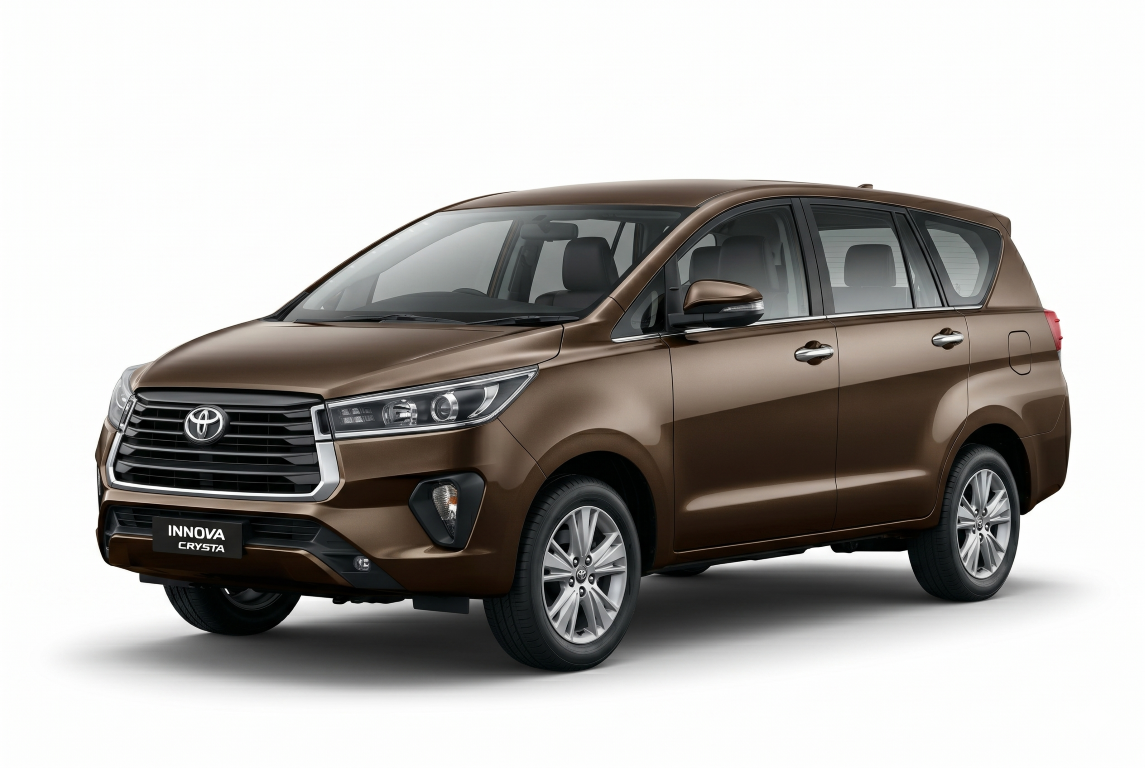
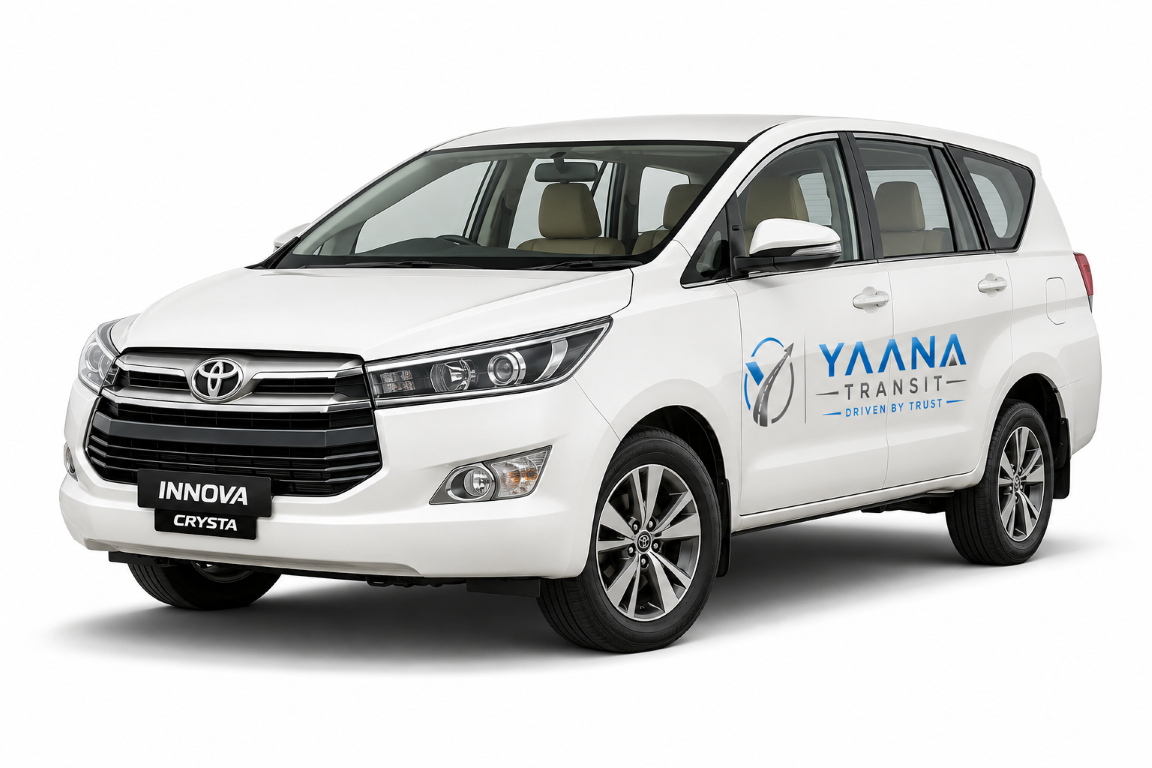
Code updated

diff --git a/apps/web/lib/constants.ts b/apps/web/lib/constants.ts
@@ -41,9 +41,9 @@ export type NavLink = {
 export const NAV_LINKS: NavLink[] = [
   { label: 'Fleet', href: '/fleet' },
   { label: 'Services', href: '/services' },
-  { label: 'Cities', href: '#cities' },
-  { label: 'Why Us', href: '#why' },
-  { label: 'Contact', href: '#inquiry' },
+  { label: 'Cities', href: '/cities' },
+  { label: 'Why Us', href: '/why' },
+  { label: 'Contact', href: '/inquiry' },
 ];
 
 // ─────────────────────────────────────────

diff --git a/apps/web/app/fleet/page.tsx b/apps/web/app/fleet/page.tsx
@@ -1,7 +1,5 @@
 // Path: apps\web\app\fleet\page.tsx
 
-// Path: apps/web/app/fleet/page.tsx
-//
 // Fleet listing page — /fleet
 //
 // Architecture: